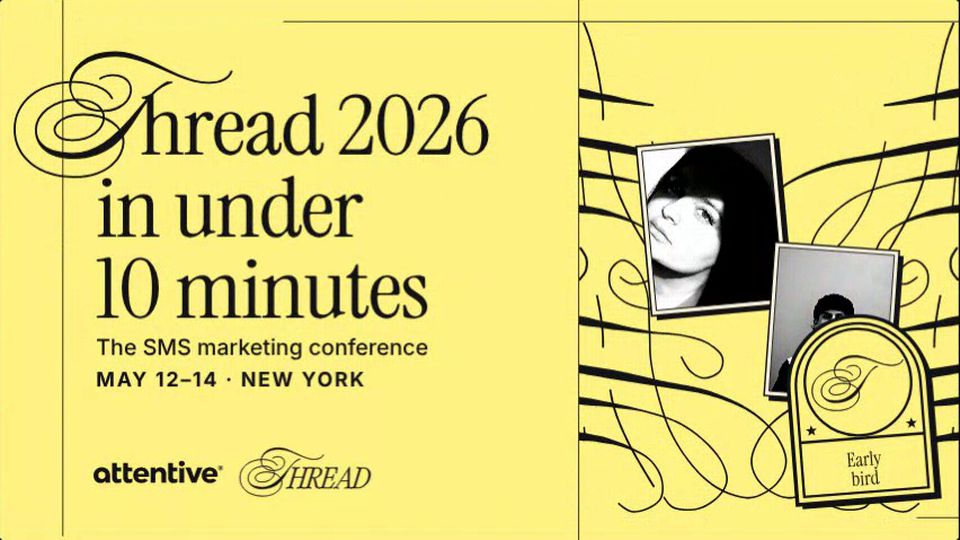
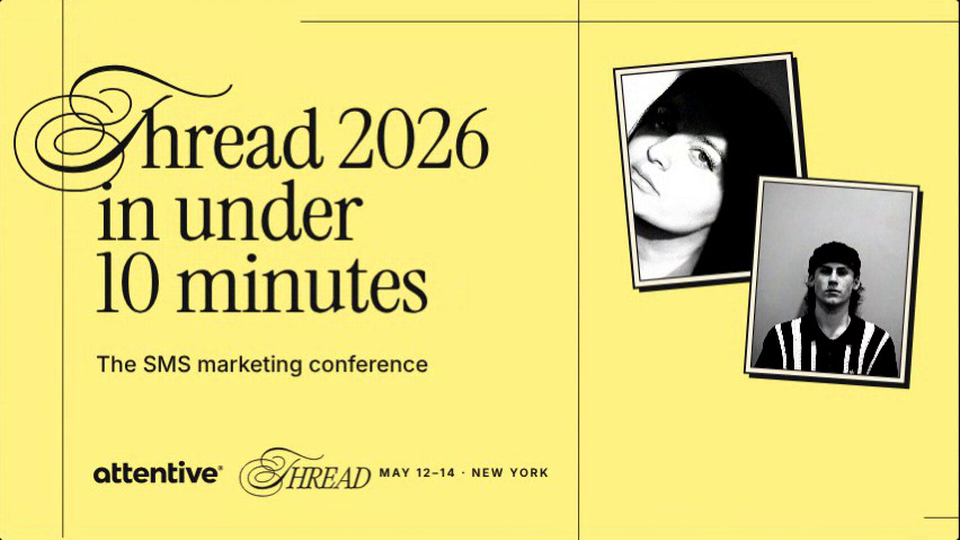
Conference Post Generator: 3D calligraphic badge letter, tighter headline (#259)
* Add Conference Post Generator: Thread 2026 social posts with loops, outlined photos and badges

Claude-Session: https://claude.ai/code/session_01AHeBdzDs1sAKkVKYb3xsdt

* Conference Post Generator: drop loop grid, badges on the right (3-5), Unsplash B&W portraits, single yellow

Claude-Session: https://claude.ai/code/session_01AHeBdzDs1sAKkVKYb3xsdt

* Conference Post Generator: new calligraphy flourish, sharp badges and tag, hairline pattern frame, caps date, one-line speaker name

Claude-Session: https://claude.ai/code/session_01AHeBdzDs1sAKkVKYb3xsdt

* Conference Post Generator: 3D calligraphic letter in badges, tighter headline leading

Claude-Session: https://claude.ai/code/session_01AHeBdzDs1sAKkVKYb3xsdt

* Conference Post Generator: date in the tag's type, more space above the talk title

Claude-Session: https://claude.ai/code/session_01AHeBdzDs1sAKkVKYb3xsdt

* Conference Post Generator: badge names on one line in Title Case

Claude-Session: https://claude.ai/code/session_01AHeBdzDs1sAKkVKYb3xsdt

* Conference Post Generator: date in footer, bigger photos bleeding off the bar, more space under the headline, smaller 16:9 speaker photo

Claude-Session: https://claude.ai/code/session_01AHeBdzDs1sAKkVKYb3xsdt

* Conference Post Generator: headline is photos only, no loops, no badge

Claude-Session: https://claude.ai/code/session_01AHeBdzDs1sAKkVKYb3xsdt
[…]

diff --git a/conference-post-generator/index.html b/conference-post-generator/index.html
@@ -5,7 +5,7 @@
 <meta name="viewport" content="width=device-width, initial-scale=1, viewport-fit=cover">
 <title>Conference Post Generator</title>
 <link rel="preconnect" href="https://fonts.googleapis.com">
-<link href="https://fonts.googleapis.com/css2?family=Instrument+Serif:ital@0;1&family=Inter:wght@400;500;600;700&display=swap" rel="stylesheet">
+<link href="https://fonts.googleapis.com/css2?family=Instrument+Serif:ital@0;1&family=Pinyon+Script&family=Playfair+Display:ital,wght@1,700&family=Inter:wght@400;500;600;700&display=swap" rel="stylesheet">
 <style>
 :root{
   --bg:#0e0e0e; --panel:#171717; --line:#2a2a2a; --text:#f3f2ea; --muted:#9a998d;
@@ -110,7 +110,9 @@ input[type=text]:focus,textarea:focus,select:focus{outline:2px solid var(--yello
     <section id="textsec">
       <h2>Text</h2>
       <label class="f" data-for="headline"><span>Headline, one line per row (wrap a line in *stars* for italic)</span><textarea id="headline" rows="3"></textarea></label>
-      <label class="f" data-for="headline pattern badges"><span>Sub line</span><input type="text" id="sub"></label>
+      <label class="f" data-for="badges"><span>Headline, one line per row</span><textarea id="bHeadline" rows="3"></textarea></label>
+      <label class="f" data-for="badges"><span>Sub line</span><input type="text" id="bSub"></label>
+      <label class="f" data-for="headline pattern"><span>Sub line</span><input type="text" id="sub"></label>
       <label class="f" data-for="headline pattern badges speaker"><span>Date and place</span><input type="text" id="date"></label>
       <label class="f" data-for="speaker"><span>Tag</span><input type="text" id="chip"></label>
       <label class="f" data-for="speaker"><span>Speaker name</span><input type="text" id="speaker"></label>
@@ -128,8 +130,8 @@ input[type=text]:focus,textarea:focus,select:focus{outline:2px solid var(--yello
         <button class="chip" data-v="hexagon">Hexagon</button>
         <button class="chip" data-v="shield">Shield</button>
       </div>
-      <label class="f"><span>Badge label, two lines max</span><textarea id="badgeText" rows="2"></textarea></label>
-      <label class="chk" data-for="headline speaker"><input type="checkbox" id="showBadge"> Show the badge</label>
+      <label class="f"><span>Badge name (one line, Title Case)</span><input type="text" id="badgeText"></label>
+      <label class="chk" data-for="speaker"><input type="checkbox" id="showBadge"> Show the badge</label>
       <div class="rng" data-for="badges"><span>Badges shown</span><input type="range" id="badgeCount" min="3" max="5" step="1"><output id="badgeCountO"></output></div>
     </section>
 
@@ -189,12 +191,14 @@ const FMT = {
   portrait:  [1600, 2000, '4:5 · 1600 × 2000'],
   story:     [1125, 2000, '9:16 · 1125 × 2000'],
 };
-const SHAPE_DEFAULTS = { arch: 'Early\nbird', circle: 'Speaker', scallop: 'Sold\nout', hexagon: 'Workshop', shield: 'VIP' };
+const SHAPE_DEFAULTS = { arch: 'Early Bird', circle: 'Speaker', scallop: 'Sold Out', hexagon: 'Workshop', shield: 'VIP' };
+/* badge names: always one line, Title Case (short all-caps words like VIP stay as typed) */
+const titleCase = (str) => String(str || '').replace(/\s+/g, ' ').trim().split(' ').map((w) => (w && w === w.toUpperCase() && w.length <= 4 ? w : w.charAt(0).toUpperCase() + w.slice(1).toLowerCase())).join(' ');
 const SHAPE_RATIO = { arch: 0.76, circle: 1, scallop: 1, hexagon: 1.1, shield: 0.84 };
 
 const S = {
   tpl: 'headline', fmt: 'landscape', theme: 'yellow', seed: 7,
-  headline: 'Thread 2026\nin under\n10 minutes', sub: 'The SMS marketing conference', date: 'May 12–14 · New York',
+  headline: 'Thread 2026\nin under\n10 minutes', sub: 'The SMS marketing conference', bHeadline: 'Tickets\non sale\nnow', bSub: 'Pick your pass for Thread 2026', date: 'May 12–14 · New York',
   chip: 'Keynote', speaker: 'Maya Chen', role: 'VP of Growth, Brand Co.', talk: 'What texting taught us about talking to customers',
   swashT: true, badgeShape: 'arch', badgeText: SHAPE_DEFAULTS.arch, showBadge: true, badgeCount: 4,
   photoFilter: 'color', photoCount: 2, weight: 5, lines: true, anim: true,
@@ -386,8 +390,14 @@ function photoFrame(ctx, i, cx, cy, w, h, rot, th, shadow) {
   ctx.restore();
 }
 /* n prints tilted around a centre, like the podcast cover reference */
-function photoCluster(ctx, c, r, n, t) {
-  const sw = (k) => 0.012 * Math.sin(TAU * t / PERIOD + k * 1.7), base = Math.min(r.w * 0.62, r.h * 0.62);
+function photoCluster(ctx, c, r, n, t, stack) {
+  if (stack) {  // wide, short bar: prints stand taller than the bar and poke out over its top edge
+    const sw2 = (k) => 0.012 * Math.sin(TAU * t / PERIOD + k * 1.7);
+    const P = { 1: [[0.5, 0.97, 0.14, -0.05]], 2: [[0.38, 0.97, 0.14, -0.06], [0.64, 0.88, 0.08, 0.06]], 3: [[0.27, 0.95, 0.14, -0.06], [0.5, 0.86, 0.06, 0.05], [0.73, 0.92, 0.1, -0.03]] }[n];
+    if (P) P.forEach((q, k) => { const ph = r.h * q[1], pw = ph * 0.8; photoFrame(ctx, k, r.x + r.w * q[0], r.y + ph * (0.5 - q[2]) + r.h * 0.0 , pw, ph, q[3] + sw2(k), c.th, c.fu * 10); });
+    return;
+  }
+  const sw = (k) => 0.012 * Math.sin(TAU * t / PERIOD + k * 1.7), base = Math.min(r.w * 0.8, r.h * 0.78);
   const L = { 1: [[0.5, 0.5, 1.0, -0.06]], 2: [[0.34, 0.4, 0.82, -0.1], [0.68, 0.62, 0.74, 0.08]], 3: [[0.3, 0.34, 0.74, -0.09], [0.7, 0.4, 0.7, 0.07], [0.46, 0.76, 0.66, -0.03]] }[n];
   if (!L) return;
   L.forEach((p, k) => { const pw = base * p[2] * 0.72, ph = pw * 1.25; photoFrame(ctx, k, r.x + r.w * p[0], r.y + r.h * p[1], pw, ph, p[3] + sw(k), c.th, c.fu * 10); });
@@ -421,6 +431,17 @@ function star(ctx, cx, cy, r) {
   ctx.beginPath(); for (let i = 0; i < 10; i++) { const a = -Math.PI / 2 + i * Math.PI / 5, rr = i % 2 ? r * 0.42 : r; i ? ctx.lineTo(cx + rr * Math.cos(a), cy + rr * Math.sin(a)) : ctx.moveTo(cx + rr * Math.cos(a), cy + rr * Math.sin(a)); }
   ctx.closePath(); ctx.fill();
 }
+/* a 3D calligraphic capital: yellow extrusion with hairline contours behind, the letter itself in heavy black on the front */
+let LETTER_FONT = "'Pinyon Script', 'Instrument Serif', serif";
+function drawLetter3D(ctx, ch, cx, cy, size, ink, side) {
+  ctx.save(); ctx.font = size + 'px ' + LETTER_FONT; ctx.textAlign = 'center'; ctx.textBaseline = 'alphabetic'; setLS(ctx, 0);
+  const m = ctx.measureText(ch), depth = size * 0.15, steps = Math.max(4, Math.round(depth / 6)), hair = Math.max(1, size * 0.004);
+  const x0 = cx - (m.actualBoundingBoxRight - m.actualBoundingBoxLeft) / 2 - depth * 0.35, y0 = cy + (m.actualBoundingBoxAscent - m.actualBoundingBoxDescent) / 2 - depth * 0.35;
+  ctx.lineJoin = 'round'; ctx.strokeStyle = ink; ctx.fillStyle = side;
+  for (let k = steps; k >= 1; k--) { const o = depth * k / steps; ctx.lineWidth = hair; ctx.fillText(ch, x0 + o, y0 + o); ctx.strokeText(ch, x0 + o, y0 + o); }
+  ctx.fillStyle = ink; ctx.lineWidth = size * 0.034; ctx.fillText(ch, x0, y0); ctx.strokeText(ch, x0, y0);
+  ctx.restore();
+}
 /* h = badge height, centred on cx,cy. Emblem circle sits on the divider like the Commerce Council reference */
 function drawBadge(ctx, th, shape, cx, cy, h, rot, label, shadow) {
   const w = h * SHAPE_RATIO[shape], x = -w / 2, y = -h / 2, ink = DARK, lw = h * 0.014;
@@ -430,12 +451,11 @@ function drawBadge(ctx, th, shape, cx, cy, h, rot, label, shadow) {
   const outer = badgePath(shape, x, y, w, h); ctx.fill(outer); ctx.lineWidth = lw * 1.5; ctx.stroke(outer);
   const d = h * 0.04; ctx.lineWidth = lw; ctx.stroke(badgePath(shape, x + d, y + d, w - 2 * d, h - 2 * d));
   const ecy = y + h * 0.36, er = Math.min(h * 0.29, w * 0.4), dv = y + h * 0.665;
-  ctx.beginPath(); ctx.arc(0, ecy, er, 0, TAU); ctx.stroke();
-  ctx.save(); ctx.beginPath(); ctx.arc(0, ecy, er - lw, 0, TAU); ctx.clip();
-  const k = (er * 1.75) / 1587; drawSwash(ctx, -er * 0.875, ecy - 918 * k / 2, k, ink, 0); ctx.restore();
+  const first = (titleCase(label).match(/[A-Za-z0-9]/) || ['T'])[0].toUpperCase();
+  drawLetter3D(ctx, first, 0, ecy + h * 0.01, h * 0.54, ink, th.accent);
   ctx.save(); ctx.clip(badgePath(shape, x + d, y + d, w - 2 * d, h - 2 * d)); ctx.beginPath(); ctx.moveTo(x, dv); ctx.lineTo(x + w, dv); ctx.lineWidth = lw; ctx.stroke(); ctx.restore();
   ctx.fillStyle = ink; star(ctx, -w * 0.36, dv - h * 0.06, h * 0.032); star(ctx, w * 0.36, dv - h * 0.06, h * 0.032);
-  const lines = String(label || '').split('\n').filter(Boolean).slice(0, 2), fs0 = h * (lines.length > 1 ? 0.105 : 0.125);
+  const lines = [titleCase(label)].filter(Boolean), fs0 = h * 0.12;
   let fs = fs0; ctx.font = serifFont(fs, false); setLS(ctx, 0);
   const maxW = w * (shape === 'shield' ? 0.58 : shape === 'circle' || shape === 'scallop' ? 0.66 : 0.78);
   lines.forEach((l) => { const mw = ctx.measureText(l).width; if (mw > maxW) fs = Math.min(fs, fs0 * maxW / mw); });
@@ -472,17 +492,19 @@ function panelRect(c, pos) {
   if (c.land) return { x: W * 0.604, y: 45 * fu, w: W - W * 0.604, h: H - 92 * fu };
   return pos === 'top' ? { x: 0, y: 45 * fu, w: W, h: H * 0.46 } : { x: 0, y: H * 0.6, w: W, h: H - 215 * fu - H * 0.6 };
 }
-function drawPanel(ctx, c, r, seed) {
+function drawPanel(ctx, c, r, seed, plain) {
   ctx.save(); ctx.fillStyle = c.th.accent; ctx.fillRect(r.x, r.y, r.w, r.h);
   ctx.beginPath(); ctx.rect(r.x, r.y, r.w, r.h); ctx.clip();
-  flourish(ctx, r.x, r.y, r.w, r.h, { color: DARK, t: c.t, still: c.still, fw: 1.2 * S.weight / 5 * c.fu, off: seed * 0.9 });
+  if (!plain) flourish(ctx, r.x, r.y, r.w, r.h, { color: DARK, t: c.t, still: c.still, fw: 1.2 * S.weight / 5 * c.fu, off: seed * 0.9 });
   ctx.restore();
 }
-function subLines(ctx, c, x, y) {
-  const { fu, th } = c; let yy = y;
-  if (S.sub) { sansText(ctx, S.sub, x, yy, 46 * fu, th.fg, { wt: 500 }); yy += 64 * fu; }
-  if (S.date) { sansText(ctx, dateTxt(), x, yy, 42 * fu, th.fg, { wt: 700, ls: 4 * fu }); yy += 64 * fu; }
+function subLines(ctx, c, x, y, text) {
+  const { fu, th } = c; let yy = y; if (text == null) text = S.sub;
+  if (text) { sansText(ctx, text, x, yy, 46 * fu, th.fg, { wt: 500 }); yy += 64 * fu; }
   return yy;
+}
+function footerDate(ctx, c, rightX) {
+  if (S.date) sansText(ctx, dateTxt(), rightX, c.H - 142 * c.fu + 9 * c.fu, 24 * c.fu, c.th.fg, { wt: 700, ls: 4 * c.fu, align: 'right' });
 }
 const dateTxt = () => (S.date || '').toUpperCase();
 const sway = (t, ph) => Math.sin(TAU * t / PERIOD + ph);
@@ -490,42 +512,38 @@ const sway = (t, ph) => Math.sin(TAU * t / PERIOD + ph);
 /* ===== templates ===== */
 /* autofit the original lock-up (swash T + stretched serif lines) into box; returns where the sub lines start */
 function headlineBlock(ctx, c, box, o) {
-  const { fu, th, t, W } = c, lines = parseLines(S.headline), sw = S.swashT && /^T/i.test(lines[0].s);
+  const { fu, th, t, W } = c, lines = parseLines(o.text != null ? o.text : S.headline), sw = S.swashT && /^T/i.test(lines[0].s);
   const w100 = lines.map((l, i) => measureSlide(ctx, (i === 0 && sw) ? l.s.slice(1) : l.s, 100, l.it) / 100);
-  const subH = (S.sub ? 64 * fu : 0) + (S.date ? 64 * fu : 0);
-  const mxMin = o.mx != null ? o.mx : 0.0985 * W, extra = sw ? 0.99 : 0, stackAt = (fs) => (lines.length - 1) * fs + 0.7 * fs + (sw ? 0.54 * fs : 0) + 76 * fu + subH;
+  const subH = (o.sub != null ? o.sub : S.sub) ? 64 * fu : 0;
+  const mxMin = o.mx != null ? o.mx : 0.0985 * W, extra = sw ? 0.99 : 0, stackAt = (fs) => (lines.length - 1) * fs * 0.88 + 0.7 * fs + (sw ? 0.54 * fs : 0) + 124 * fu + subH;
   let fs = o.maxFs;
   for (; fs > 24; fs *= 0.97) {
     const mx = Math.max(mxMin, extra * fs + 0.015 * W), right = Math.max(...w100.map((w, i) => (i === 0 && sw ? 0.53 : 0) + w)) * fs + mx;
     if (right <= box.x + box.w && stackAt(fs) <= box.h) break;
   }
-  const mx = Math.max(mxMin, extra * fs + 0.015 * W), top = box.y + (box.h - stackAt(fs)) / 2 + (sw ? 0.54 * fs : 0), b1 = top + 0.7 * fs, fl = (i) => 2 * fu * sway(t, i * 0.8 + 0);
+  const LH = 0.88, mx = Math.max(mxMin, extra * fs + 0.015 * W), top = box.y + (box.h - stackAt(fs)) / 2 + (sw ? 0.54 * fs : 0), b1 = top + 0.7 * fs, fl = (i) => 2 * fu * sway(t, i * 0.8 + 0);
   if (sw) drawSwash(ctx, mx + 0.53 * fs - 1.52 * fs, b1 - 1.24 * fs + fl(0), fs * 0.285 / 172, th.fg, 0.012 * sway(t, 0));
-  lines.forEach((l, i) => slide(ctx, (i === 0 && sw) ? l.s.slice(1) : l.s, mx + (i === 0 && sw ? 0.53 * fs : 0), b1 + i * fs + fl(i), fs, l.it, th.fg));
-  return { mx, fs, bottom: b1 + (lines.length - 1) * fs + 36 * fu };
+  lines.forEach((l, i) => slide(ctx, (i === 0 && sw) ? l.s.slice(1) : l.s, mx + (i === 0 && sw ? 0.53 * fs : 0), b1 + i * fs * LH + fl(i), fs, l.it, th.fg));
+  return { mx, fs, bottom: b1 + (lines.length - 1) * fs * LH + 36 * fu };
 }
 
 function tHeadline(ctx, c) {
   const { W, H, fu, th, t, land } = c, pr = panelRect(c, 'bottom');
-  drawPanel(ctx, c, pr, S.seed);
+  drawPanel(ctx, c, pr, S.seed, true);  // plain bar, photos only
   const n = S.photoCount;
-  if (n) photoCluster(ctx, c, { x: pr.x + pr.w * (land ? 0.04 : 0.3), y: pr.y + pr.h * 0.05, w: pr.w * (land ? 0.92 : 0.66), h: pr.h * 0.9 }, n, t);
-  if (S.showBadge) {
-    const bh = land ? H * (n ? 0.34 : 0.56) : pr.h * (n ? 0.62 : 0.86);
-    const bx = n ? (land ? pr.x + pr.w * 0.74 : pr.x + pr.w * 0.18) : pr.x + pr.w / 2, by = n ? (land ? pr.y + pr.h * 0.78 : pr.y + pr.h * 0.62) : pr.y + pr.h / 2;
-    drawBadge(ctx, th, S.badgeShape, bx, by + 6 * sway(t, 1), bh, -0.08 + 0.015 * sway(t, 0.6), S.badgeText, fu * 10);
-  }
+  if (n) photoCluster(ctx, c, land ? { x: pr.x + pr.w * 0.04, y: pr.y - pr.h * 0.1, w: pr.w * 0.92, h: pr.h } : pr, n, t, !land);
   frameLines(ctx, c, land ? pr.x : null);
-  const box = land ? { x: 0, y: 100 * fu, w: pr.x - 60 * fu, h: H - 350 * fu } : { x: 0, y: 110 * fu, w: W - 0.06 * W, h: pr.y - 150 * fu };
+  if (!land && S.lines) { ctx.save(); ctx.strokeStyle = th.fg; ctx.lineWidth = Math.max(1.5, 2 * fu); ctx.beginPath(); ctx.moveTo(0, pr.y); ctx.lineTo(W, pr.y); ctx.stroke(); ctx.restore(); }
+  const box = land ? { x: 0, y: 100 * fu, w: pr.x - 60 * fu, h: H - 350 * fu } : { x: 0, y: 110 * fu, w: W - 0.06 * W, h: pr.y - 300 * fu };
   const hb = headlineBlock(ctx, c, box, { maxFs: 172 * fu * (land ? 1 : 2) });
-  subLines(ctx, c, hb.mx, hb.bottom + 40 * fu);
-  footer(ctx, c);
+  subLines(ctx, c, hb.mx, hb.bottom + 88 * fu);
+  footer(ctx, c); footerDate(ctx, c, land ? pr.x - 60 * fu : W - 0.0985 * W);
 }
 
 function tSpeaker(ctx, c) {
   const { W, H, fu, th, t, land } = c, pr = panelRect(c, 'top');
   drawPanel(ctx, c, pr, S.seed + 3);
-  const ph = pr.h * 0.74, pw = ph * 0.8;
+  const ph = pr.h * (land ? 0.56 : 0.74), pw = ph * 0.8;  // smaller on 16:9 (LinkedIn) so the print sits well inside the panel
   photoFrame(ctx, 0, pr.x + pr.w / 2, pr.y + pr.h / 2 + 4 * sway(t, 0.4), pw, ph, -0.05 + 0.012 * sway(t, 0.2), th, 12 * fu);
   if (S.showBadge) { const bh = land ? H * 0.3 : pr.h * 0.44, bw = bh * SHAPE_RATIO[S.badgeShape]; drawBadge(ctx, th, S.badgeShape, Math.min(pr.x + pr.w / 2 + pw * 0.62, W - bw / 2 - 36 * fu), pr.y + pr.h * (land ? 0.8 : 0.86) + 5 * sway(t, 1.2), bh, 0.1 + 0.015 * sway(t, 0.9), S.badgeText, 10 * fu); }
   frameLines(ctx, c, land ? pr.x : null);
@@ -538,7 +556,7 @@ function tSpeaker(ctx, c) {
   const w100 = nameLines.map((s) => measureSlide(ctx, s, 100, false) / 100);
   ctx.save(); ctx.font = serifFont(60 * fu, true);
   const talk = (S.talk ? wrapText(ctx, S.talk, rightB - mx) : []).slice(0, 3); ctx.restore();
-  const extraH = (S.chip ? 100 * fu : 0) + (S.role ? 100 * fu : 0) + talk.length * 62 * fu + 40 * fu;
+  const extraH = (S.chip ? 100 * fu : 0) + (S.role ? 150 * fu : 0) + talk.length * 62 * fu + 40 * fu;
   let fs = 300 * fu * (land ? 0.8 : 1);
   for (; fs > 30; fs *= 0.97) { if (Math.max(...w100) * fs + mx <= rightB && (nameLines.length - 1) * fs + 0.7 * fs + extraH <= botY - topY) break; }
   const stack = (nameLines.length - 1) * fs + 0.7 * fs + extraH;
@@ -546,13 +564,13 @@ function tSpeaker(ctx, c) {
   if (S.chip) {
     ctx.save(); ctx.strokeStyle = th.fg; ctx.lineWidth = Math.max(1.5, 2 * fu); ctx.lineJoin = 'miter'; ctx.strokeRect(mx + 1, y + 1, tw - 2, tagH - 2);
     ctx.fillStyle = th.fg; ctx.font = tagFont; ctx.textAlign = 'left'; ctx.textBaseline = 'alphabetic'; setLS(ctx, tagSp); ctx.fillText(tag, mx + tagPad, y + tagH / 2 + tagFs * 0.375); ctx.restore();
-    if (S.date) sansText(ctx, dateTxt(), mx + tw + 36 * fu, y + tagH / 2 + 15 * fu, 40 * fu, th.fg, { wt: 700, ls: 4 * fu });
+    if (S.date) { ctx.save(); ctx.fillStyle = th.fg; ctx.font = tagFont; ctx.textAlign = 'left'; ctx.textBaseline = 'alphabetic'; setLS(ctx, tagSp); ctx.fillText(dateTxt(), mx + tw + 30 * fu, y + tagH / 2 + tagFs * 0.375); ctx.restore(); }  // same type as the tag
     y += 100 * fu;
   }
   y += 0.7 * fs;
   nameLines.forEach((s, i) => slide(ctx, s, mx, y + i * fs + 2 * fu * sway(t, i * 0.8), fs, false, th.fg));
   y += (nameLines.length - 1) * fs + 62 * fu;
-  if (S.role) { y += 40 * fu; sansText(ctx, S.role, mx, y, 38 * fu, th.fg, { wt: 600 }); y += 30 * fu; }
+  if (S.role) { y += 40 * fu; sansText(ctx, S.role, mx, y, 38 * fu, th.fg, { wt: 600 }); y += 78 * fu; }
   talk.forEach((l, i) => serifText(ctx, l, mx, y + 54 * fu + i * 62 * fu, 60 * fu, th.fg, { it: true }));
   y += talk.length * 62 * fu + 40 * fu;
   footer(ctx, c);
@@ -562,18 +580,28 @@ function tBadges(ctx, c) {
   const { W, H, fu, th, t, land } = c, pr = panelRect(c, 'bottom');
   frameLines(ctx, c, land ? pr.x : null);
   const box = land ? { x: 0, y: 100 * fu, w: pr.x - 60 * fu, h: H - 350 * fu } : { x: 0, y: 110 * fu, w: W - 0.06 * W, h: pr.y - 150 * fu };
-  const hb = headlineBlock(ctx, c, box, { maxFs: 172 * fu * (land ? 1 : 2) });
-  subLines(ctx, c, hb.mx, hb.bottom + 40 * fu);
-  footer(ctx, c);
-  // the badge cluster: the chosen shape leads, the others follow in a fixed order
-  const n = cl(S.badgeCount, 3, 5), base = land ? Math.min(pr.h, pr.w * 1.05) : Math.min(pr.h * 1.3, pr.w * 0.9);
-  const L = { 3: [[0.5, 0.36, 0.64, 0.02], [0.2, 0.78, 0.38, -0.1], [0.8, 0.74, 0.4, 0.09]],
-    4: [[0.46, 0.34, 0.58, 0.02], [0.82, 0.2, 0.34, 0.1], [0.18, 0.76, 0.38, -0.1], [0.72, 0.78, 0.4, 0.07]],
-    5: [[0.45, 0.33, 0.5, 0.02], [0.84, 0.2, 0.3, 0.1], [0.16, 0.74, 0.34, -0.1], [0.5, 0.82, 0.3, 0.05], [0.86, 0.62, 0.3, -0.08]] }[n];
-  const order = ['arch', 'circle', 'scallop', 'hexagon', 'shield'].filter((x) => x !== S.badgeShape);
+  const hb = headlineBlock(ctx, c, box, { maxFs: 172 * fu * (land ? 1 : 2), text: S.bHeadline, sub: S.bSub });
+  subLines(ctx, c, hb.mx, hb.bottom + 88 * fu, S.bSub);
+  footer(ctx, c); footerDate(ctx, c, land ? pr.x - 60 * fu : W - 0.0985 * W);
+  // the badge cluster, pushed to the right; the chosen shape leads and one badge bleeds slightly off the right edge
+  const n = cl(S.badgeCount, 3, 5), order = ['arch', 'circle', 'scallop', 'hexagon', 'shield'].filter((x) => x !== S.badgeShape);
+  let L, base, X, Y;
+  if (land) {
+    base = Math.min(pr.h, pr.w * 1.05);
+    L = { 3: [[0.56, 0.4, 0.66, 0.02], [0.3, 0.8, 0.38, -0.1], [0.97, 0.7, 0.42, 0.09]],
+      4: [[0.54, 0.36, 0.6, 0.02], [0.98, 0.2, 0.34, 0.1], [0.24, 0.78, 0.38, -0.1], [0.74, 0.8, 0.4, 0.07]],
+      5: [[0.5, 0.34, 0.52, 0.02], [0.98, 0.18, 0.32, 0.1], [0.2, 0.74, 0.34, -0.1], [0.54, 0.82, 0.3, 0.05], [0.93, 0.62, 0.3, -0.08]] }[n];
+    X = (fx) => pr.x + pr.w * fx; Y = (fy) => pr.y + pr.h * fy;
+  } else {
+    const ar = { y: H * 0.5, h: H - 215 * fu - H * 0.5 }; base = ar.h;
+    L = { 3: [[0.68, 0.52, 0.8, 0.02], [0.4, 0.8, 0.46, -0.1], [0.97, 0.2, 0.5, 0.1]],
+      4: [[0.66, 0.5, 0.74, 0.02], [0.38, 0.82, 0.44, -0.1], [0.97, 0.2, 0.5, 0.1], [0.93, 0.84, 0.4, 0.07]],
+      5: [[0.64, 0.46, 0.66, 0.02], [0.36, 0.8, 0.42, -0.1], [0.97, 0.18, 0.46, 0.1], [0.9, 0.82, 0.4, 0.06], [0.4, 0.2, 0.34, 0.08]] }[n];
+    X = (fx) => W * fx; Y = (fy) => ar.y + ar.h * fy;
+  }
   L.forEach((p, i) => {
-    const shape = i ? order[i - 1] : S.badgeShape, bh = base * p[2];
-    drawBadge(ctx, th, shape, pr.x + pr.w * p[0], pr.y + pr.h * p[1] + 6 * fu * sway(t, i * 1.3), bh, p[3] + 0.015 * sway(t, i), i ? SHAPE_DEFAULTS[shape] : S.badgeText, 10 * fu);
+    const shape = i ? order[i - 1] : S.badgeShape, bh = base * p[2] * (land ? 1 : 1.18);
+    drawBadge(ctx, th, shape, X(p[0]), Y(p[1]) + 6 * fu * sway(t, i * 1.3), bh, p[3] + 0.015 * sway(t, i), i ? SHAPE_DEFAULTS[shape] : S.badgeText, 10 * fu);
   });
 }
 
@@ -616,7 +644,7 @@ function frame(now) {
   }
   requestAnimationFrame(frame);
 }
-const TEXTS = ['headline', 'sub', 'date', 'chip', 'speaker', 'role', 'talk', 'badgeText'], CHECKS = ['swashT', 'showBadge', 'lines', 'anim'], RANGES = ['weight', 'photoCount', 'badgeCount'];
+const TEXTS = ['headline', 'bHeadline', 'bSub', 'sub', 'date', 'chip', 'speaker', 'role', 'talk', 'badgeText'], CHECKS = ['swashT', 'showBadge', 'lines', 'anim'], RANGES = ['weight', 'photoCount', 'badgeCount'];
 function syncUI() {
   [['tpl', S.tpl], ['fmt', S.fmt], ['shape', S.badgeShape], ['pfilter', S.photoFilter]].forEach(([id, v]) => document.querySelectorAll('#' + id + ' .chip').forEach((b) => { b.classList.toggle('on', b.dataset.v === v); b.setAttribute('aria-pressed', b.dataset.v === v); }));
   document.querySelectorAll('#theme .sw').forEach((b) => b.classList.toggle('on', b.dataset.v === S.theme));
@@ -690,7 +718,7 @@ new URLSearchParams(location.hash.slice(1)).forEach((v, k) => {
   else if (k === 'filter') S.photoFilter = v; else if (k === 'photos') S.photoCount = +v;
 });
 addEventListener('resize', fit);
-Promise.all([document.fonts.load("172px 'Instrument Serif'"), document.fonts.load("italic 60px 'Instrument Serif'"), document.fonts.load('600 40px Inter'), document.fonts.load('700 40px Inter')]).catch(() => {}).then(() => { dirty = true; });
+Promise.all([document.fonts.load("172px 'Instrument Serif'"), document.fonts.load("italic 60px 'Instrument Serif'"), document.fonts.load('600 40px Inter'), document.fonts.load("100px 'Pinyon Script'"), document.fonts.load("italic 700 100px 'Playfair Display'"), document.fonts.load('700 40px Inter')]).catch(() => {}).then(() => { dirty = true; });
 syncUI(); fit(); requestAnimationFrame(frame);
 </script>
 </body>
